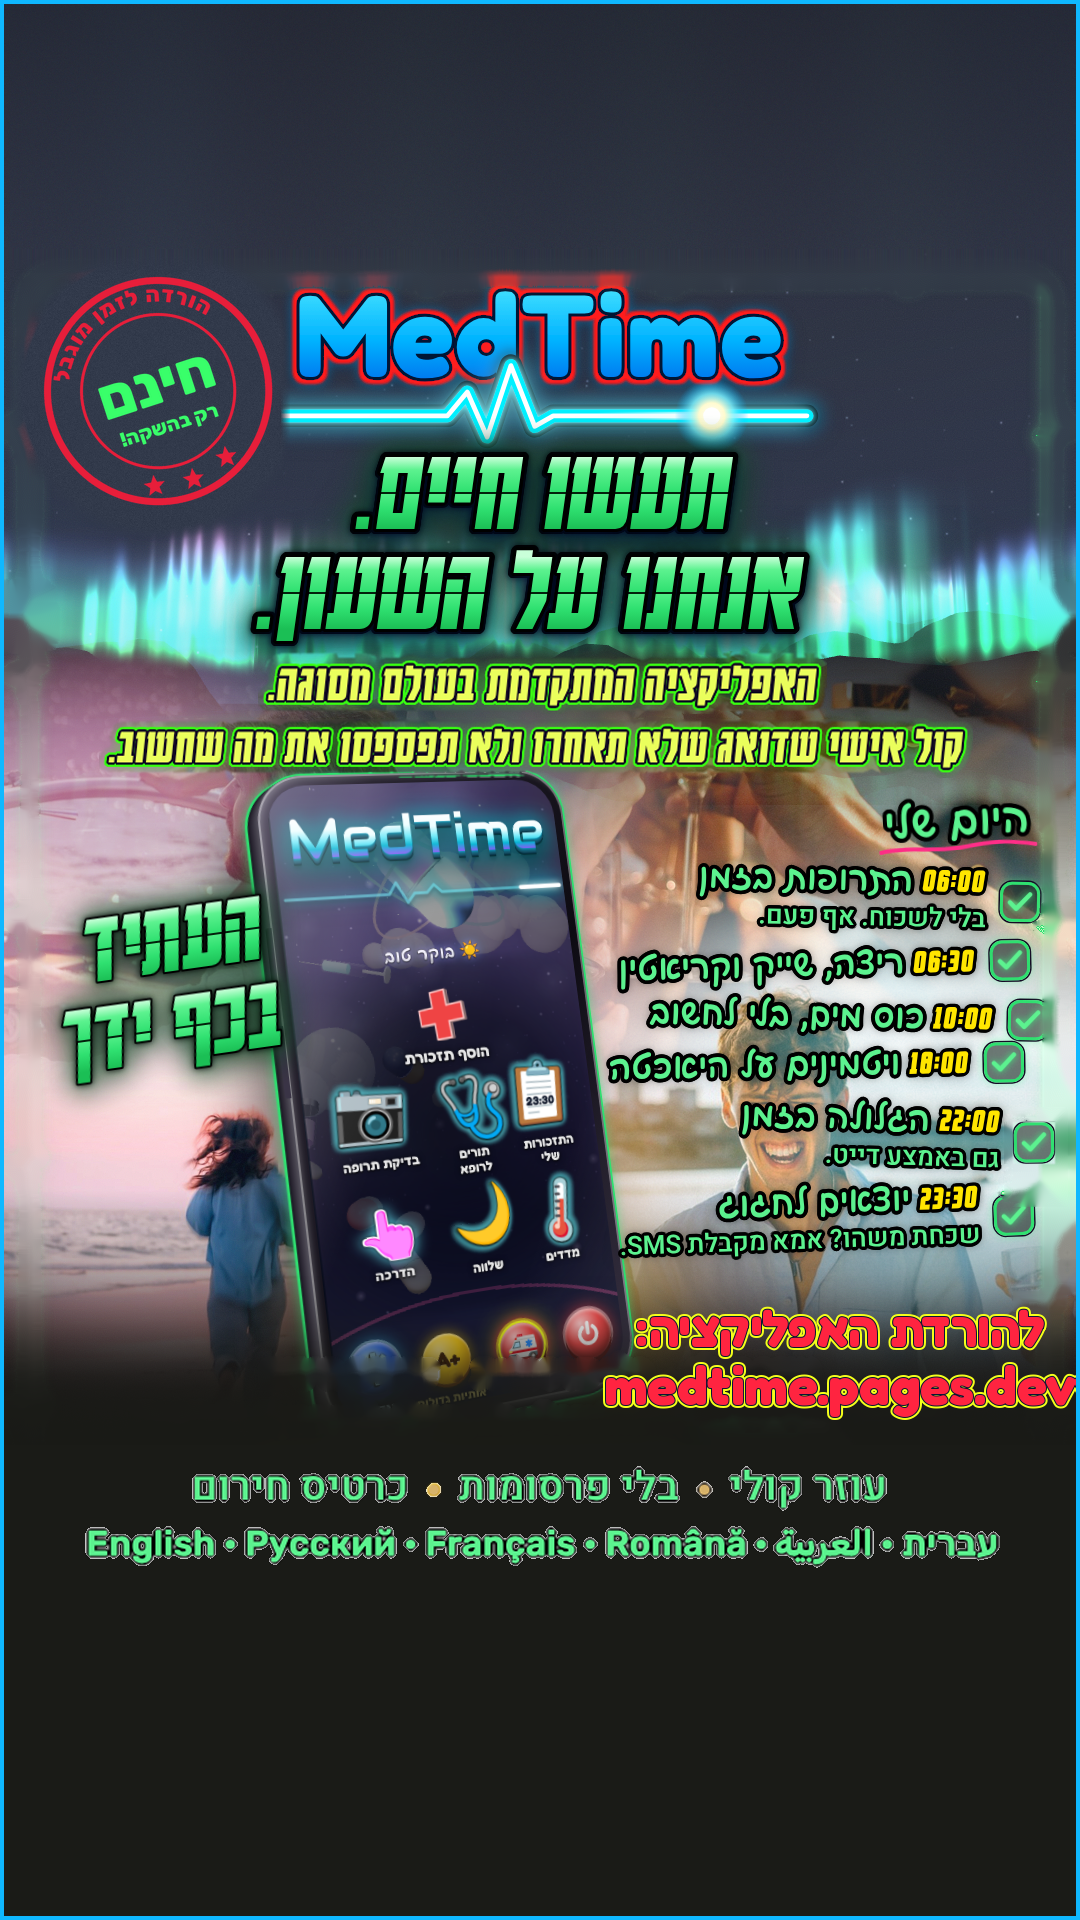
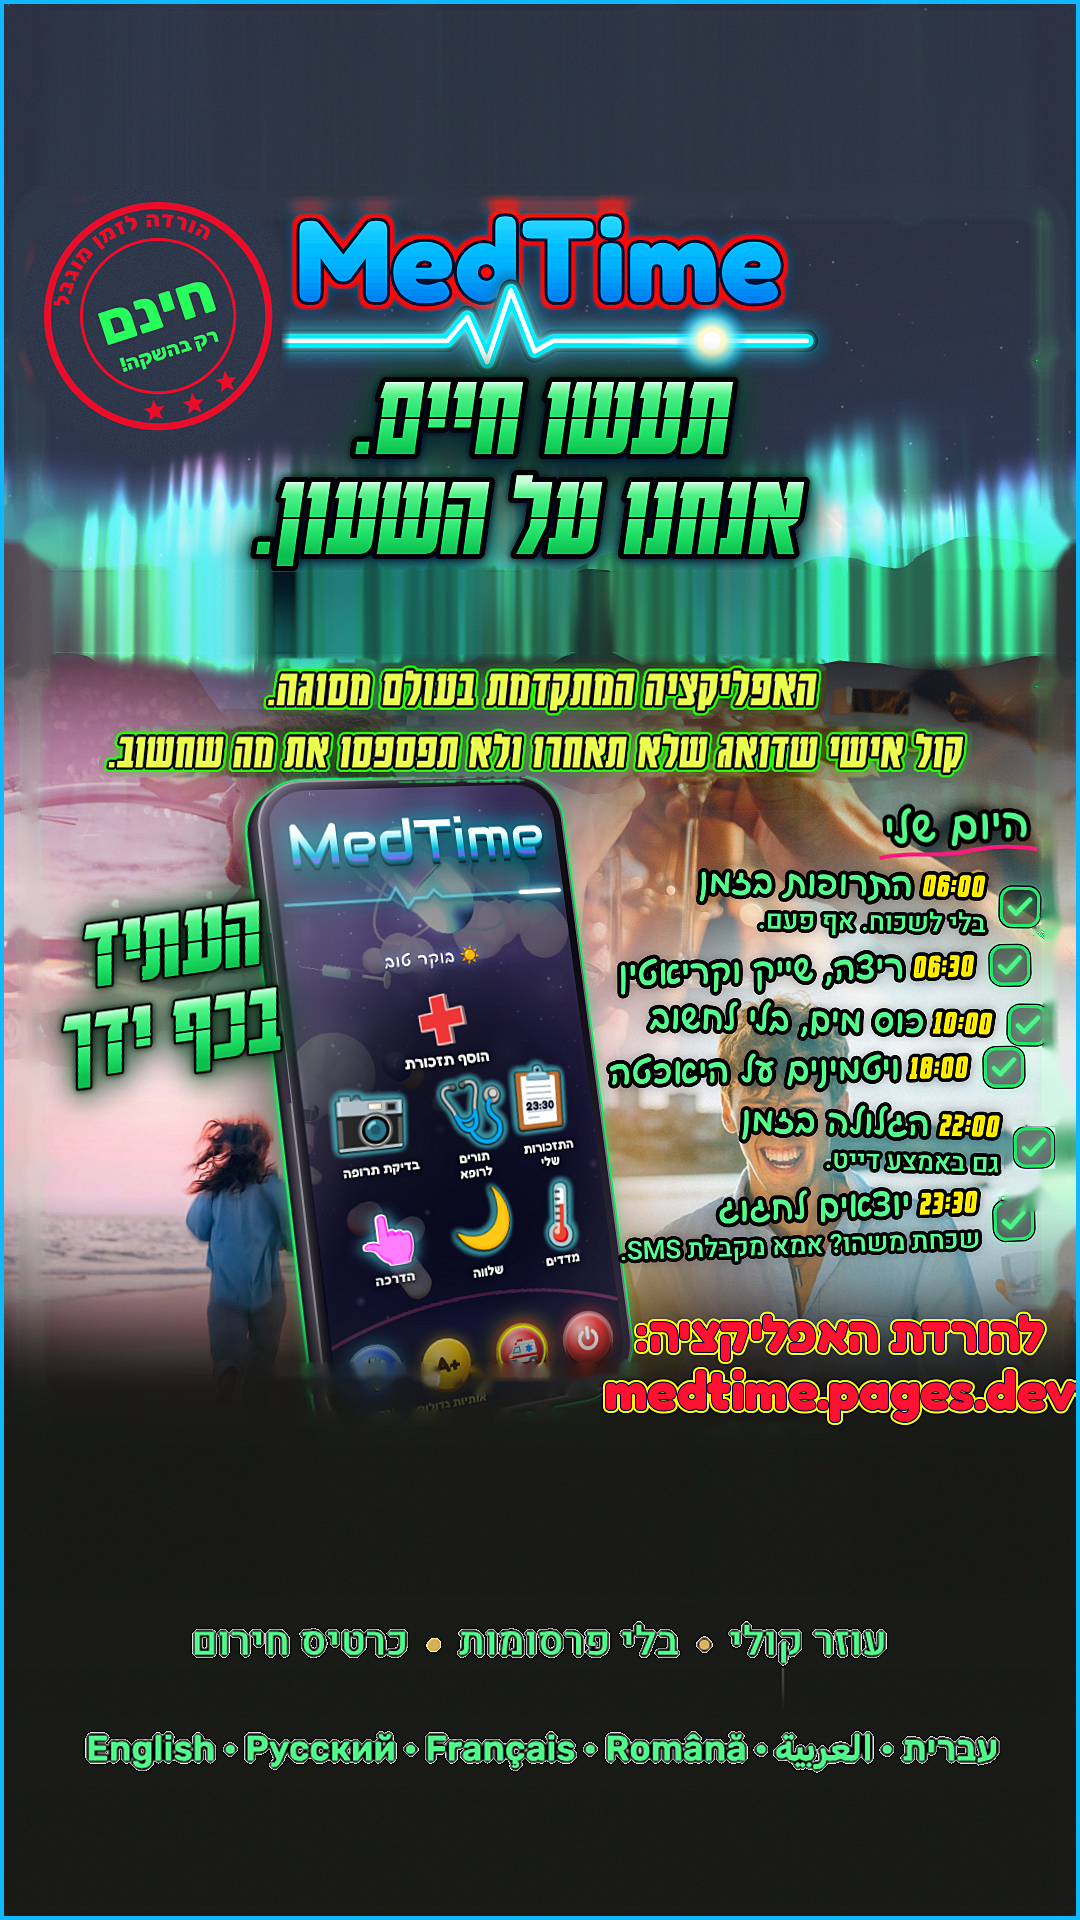
Ad tall: spread parts over full height, richer colours, light sharpening [skip ci]
Claude-Session: https://claude.ai/code/session_01VsxPbo6X9KYMbXyBhgnXSS

diff --git a/media/ads/src/premium_tall.py b/media/ads/src/premium_tall.py
@@ -1,32 +1,36 @@
-# Tall 9:16 version (1080x1920) of the premium ad for WhatsApp Status / full screen.
-# The 4:5 ad stays as it is in the middle; the space above continues the top's dark sky softly,
-# the space below continues the dark bottom; the thin blue frame goes round the whole picture.
+# Tall 9:16 version (1080x1920) of the premium ad, round 2 (Roni 15:22): the parts are spread over the
+# whole height (no stretching of any text or picture): extra space is added only in quiet rows
+# (top, between title and motto, before the phone, in the dark area, between and under the bottom rows),
+# then colours a little richer and a light sharpening; thin blue frame round the whole picture.
 # Run: python3 premium_tall.py MedTime-ad-premium.png OUT.png
 import sys, numpy as np, cv2
 from PIL import Image, ImageDraw
 src, out = sys.argv[1:3]
 ad = np.array(Image.open(src).convert('RGB')).astype(np.float32)
-B = 5                                             # old frame width to cut off
-core = ad[B:-B, B:-B]                              # 1070 x 1340
-W, H = 1080, 1920
-top_h = (H - core.shape[0]) // 2 - 40              # a bit more room below than above
-canvas = np.zeros((H, W, 3), np.float32)
-x0 = (W - core.shape[1]) // 2
-# above: the ad's top rows, stretched up and blurred, getting slightly darker towards the top
-row = cv2.GaussianBlur(core[:6].mean(0, keepdims=True), (0, 0), 40)   # colour of the very top row, smoothed
-up = np.repeat(row, top_h, axis=0)
-up = up + np.random.default_rng(2).normal(0, 1.5, up.shape).astype(np.float32)
-k = np.linspace(0.8, 1.0, top_h)[:, None, None]
-canvas[:top_h, x0:x0+core.shape[1]] = up * k
-canvas[top_h:top_h+core.shape[0], x0:x0+core.shape[1]] = core
-# soft join over 40 px
-j = 24; w_ = np.linspace(0, 1, j)[:, None, None]
-canvas[top_h:top_h+j, x0:x0+core.shape[1]] = up[-1:]*k[-1]*(1-w_) + core[:j]*w_
-# below: the flat dark colour of the ad's bottom
-dark = np.median(core[-30:, 100:-100].reshape(-1, 3), axis=0)
-canvas[top_h+core.shape[0]:, :] = dark
-canvas[:, :x0] = canvas[:, x0:x0+1]; canvas[:, x0+core.shape[1]:] = canvas[:, x0+core.shape[1]-1:x0+core.shape[1]]
-im = Image.fromarray(np.clip(canvas, 0, 255).astype(np.uint8))
-ImageDraw.Draw(im).rectangle((0, 0, W-1, H-1), outline=(15, 184, 255), width=4)
-im.save(out)
-print('ok', top_h)
+H0, W = ad.shape[:2]
+B = 5                                              # old frame: replace with the pixels just inside it
+ad[:B] = ad[B:B+1]; ad[-B:] = ad[-B-1:-B]; ad[:, :B] = ad[:, B:B+1]; ad[:, -B:] = ad[:, -B-1:-B]
+# (row where space is added, how much)
+INS = [(14, 170), (402, 80), (1195, 150), (1268, 50), (1336, 120)]
+assert H0 + sum(n for _, n in INS) == 1920
+parts, last = [], 0
+for y, n in INS:
+    parts.append(ad[last:y])
+    a_, b_ = ad[y-3:y].mean(0), ad[y:y+3].mean(0)
+    t = np.linspace(0, 1, n)[:, None, None]; t = t*t*(3 - 2*t)
+    gap = a_[None]*(1 - t) + b_[None]*t
+    gap = cv2.GaussianBlur(gap, (0, 0), sigmaX=0.8, sigmaY=1)   # keep vertical streaks (aurora) as they are
+    gap = gap + np.random.default_rng(y).normal(0, 1.2, gap.shape).astype(np.float32)
+    parts.append(gap)
+    last = y
+parts.append(ad[last:])
+tall = np.concatenate(parts, 0)
+# richer colours + light sharpening
+hsv = cv2.cvtColor(np.clip(tall, 0, 255).astype(np.uint8), cv2.COLOR_RGB2HSV).astype(np.float32)
+hsv[..., 1] = np.clip(hsv[..., 1]*1.08, 0, 255)
+tall = cv2.cvtColor(hsv.astype(np.uint8), cv2.COLOR_HSV2RGB).astype(np.float32)
+tall = np.clip(tall*1.0 + (tall - cv2.GaussianBlur(tall, (0, 0), 1.2))*0.45, 0, 255)
+im = Image.fromarray(tall.astype(np.uint8))
+ImageDraw.Draw(im).rectangle((0, 0, W-1, 1919), outline=(15, 184, 255), width=4)
+im.save(out, optimize=True)
+print('ok', im.size)

diff --git a/handoff/SYNC-LOG.md b/handoff/SYNC-LOG.md
@@ -7,6 +7,9 @@
 - מה: M-320..M-324 (פירוט ב-CHANGES.md): ברכה וצלב למעלה; פריסה שווה (3 בשורה, שורה קצרה ממורכזת); תור רופא: תווית קצרה על הסמל; חיסכון בסוללה (saver.js + WebView onPause/onResume + isPowerSave/batteryLevel/isCharging ב-NativeBridge); טיפ הגדרות בסוף ההגדרה הראשונית.
 - קומיטים: cc5f4ca (דף, עדכון מהיר), 36dcecb (Java, בנייה 223). להחזרה: git revert 36dcecb cc5f4ca.
 
+## 2026-10-23 ~15:35 · חשבון ראשי · אותה שיחה
+- מה: הגרסה הגבוהה, סבב 2: החלקים נפרסים לכל הגובה בלי למתוח טקסט או תמונה: רווח נוסף רק בשורות שקטות (למעלה 170, בין המוטו לשורות הצהובות 80, באזור הכהה 150, בין השורות התחתונות 50, למטה 120); צבעים +8% רוויה וחידוד קל. סקריפט: premium_tall.py.
+
 ## 2026-10-23 ~15:30 · חשבון ראשי · אותה שיחה
 - מה: רוני בחר "שתי גרסאות": נוספה media/ads/MedTime-ad-premium-tall.png (1080x1920, 9:16) לסטטוס/מסך מלא: המודעה באמצע, למעלה המשך רך של צבע הרקע העליון, למטה הצבע הכהה, מסגרת כחולה סביב הכל. סקריפט: media/ads/src/premium_tall.py. גרסת 4:5 נשארת לצ'אטים. טקסט לצירוף: media/ads/whatsapp_ad_he.txt.
 
